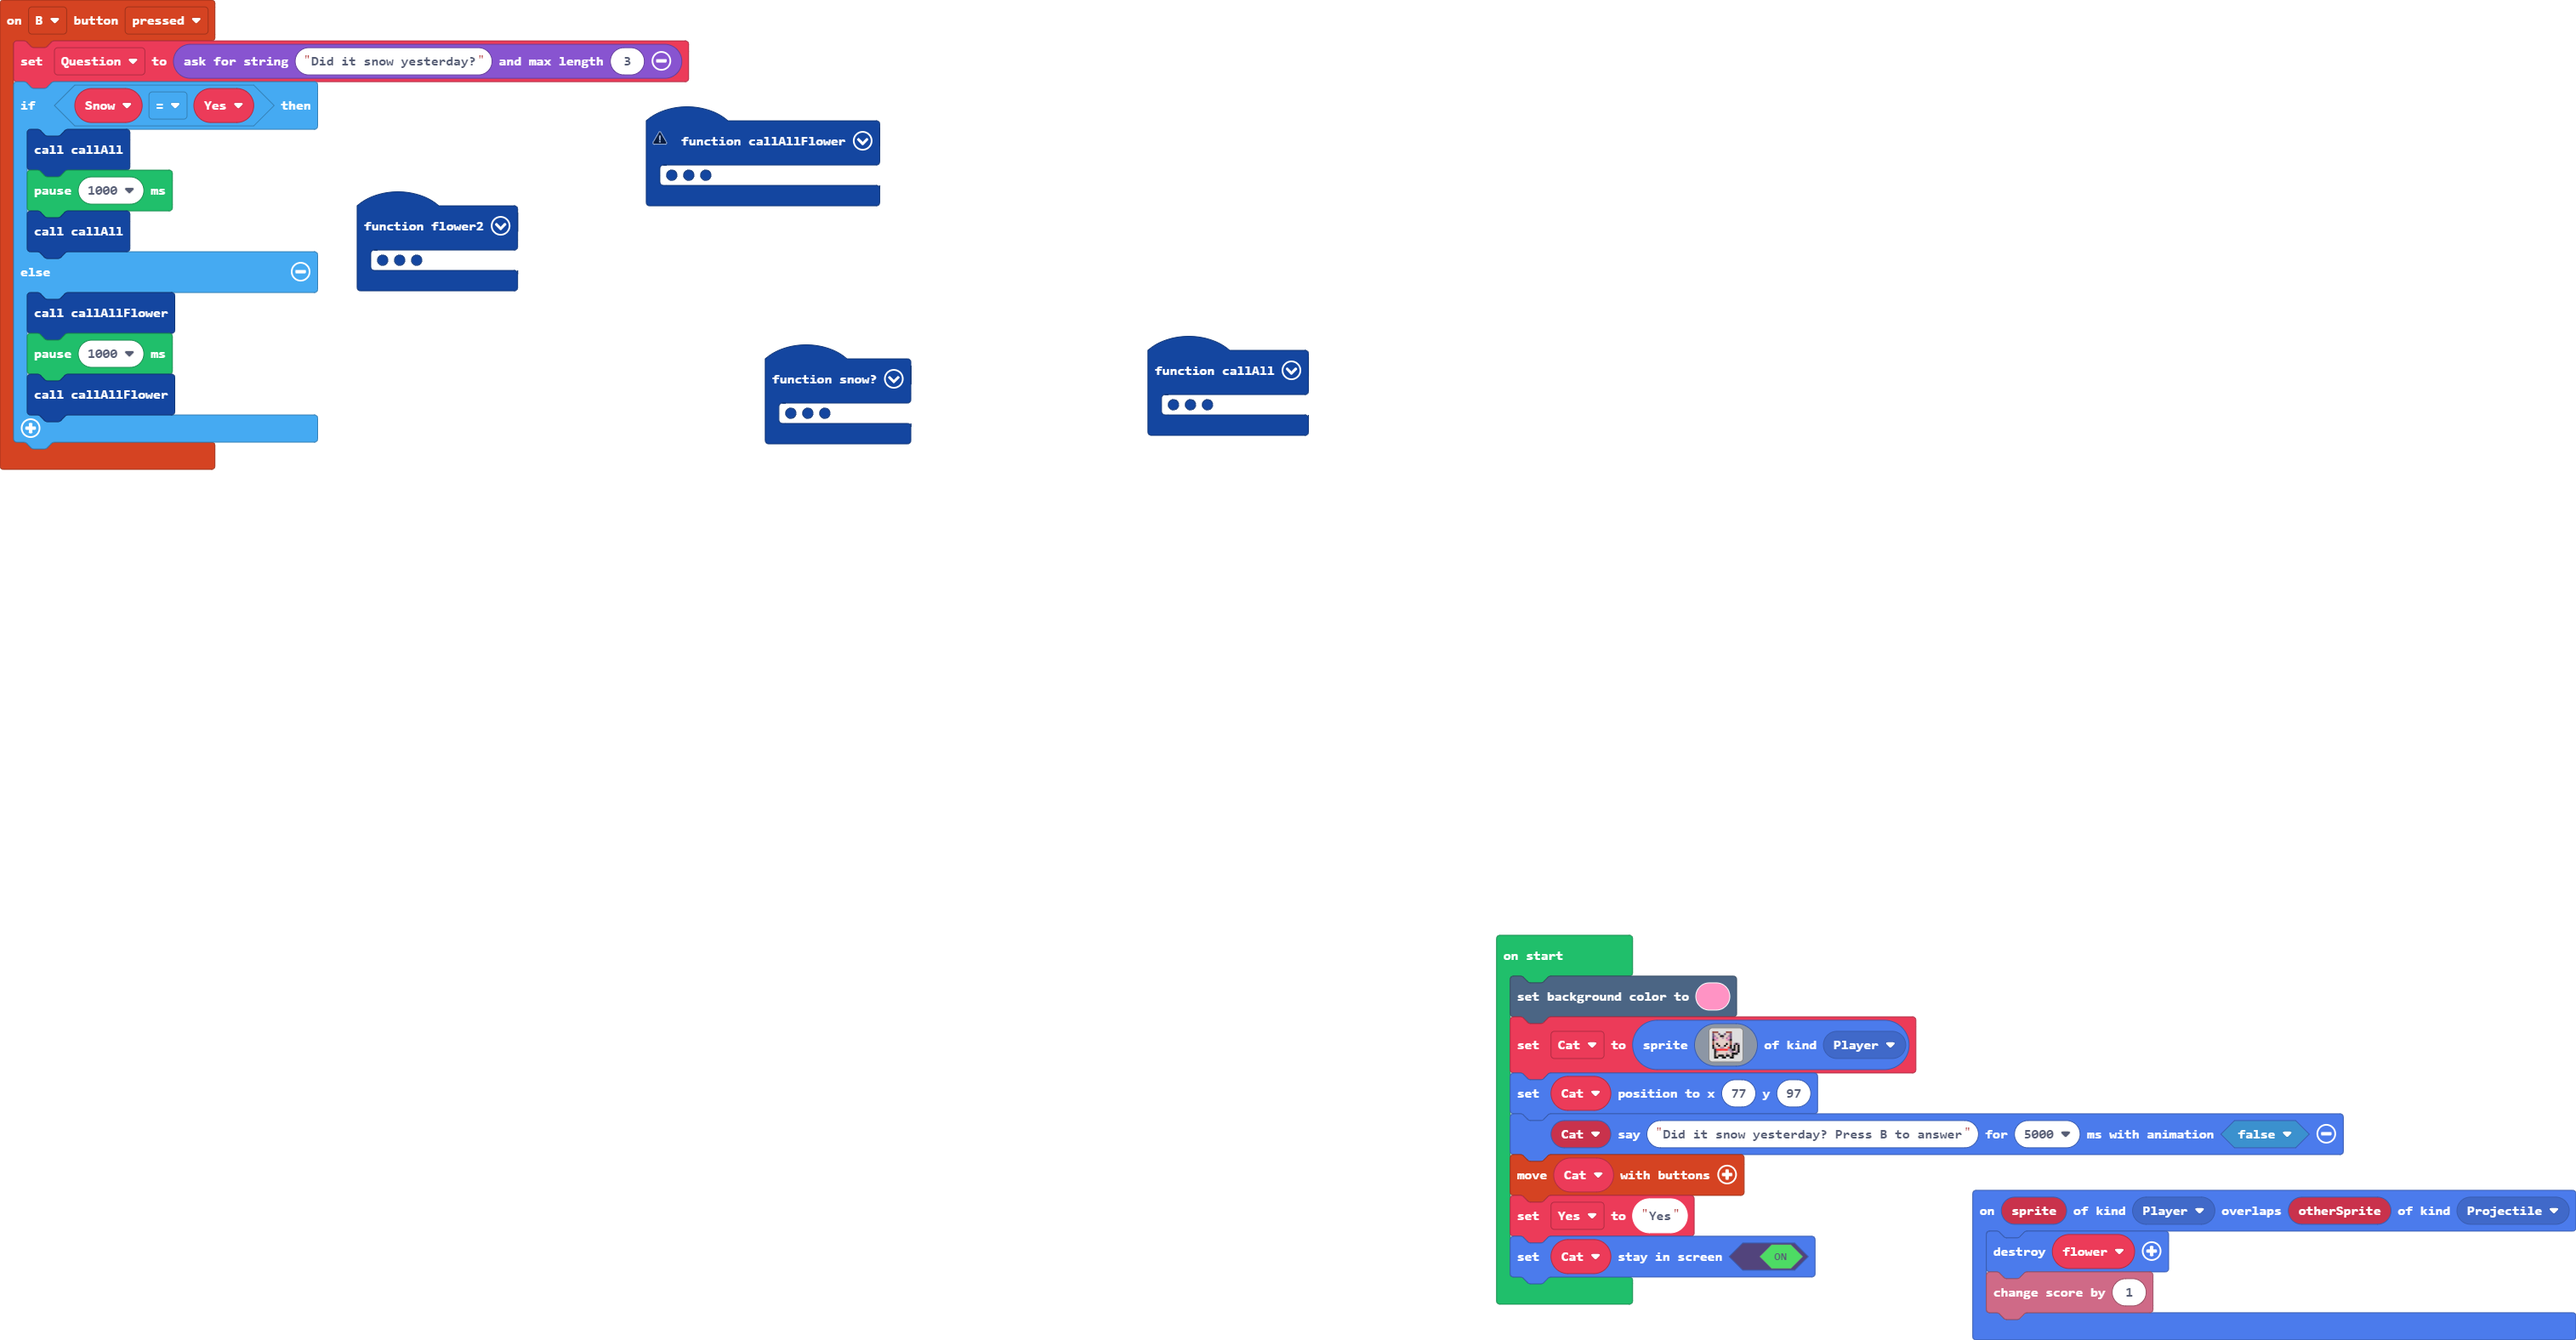
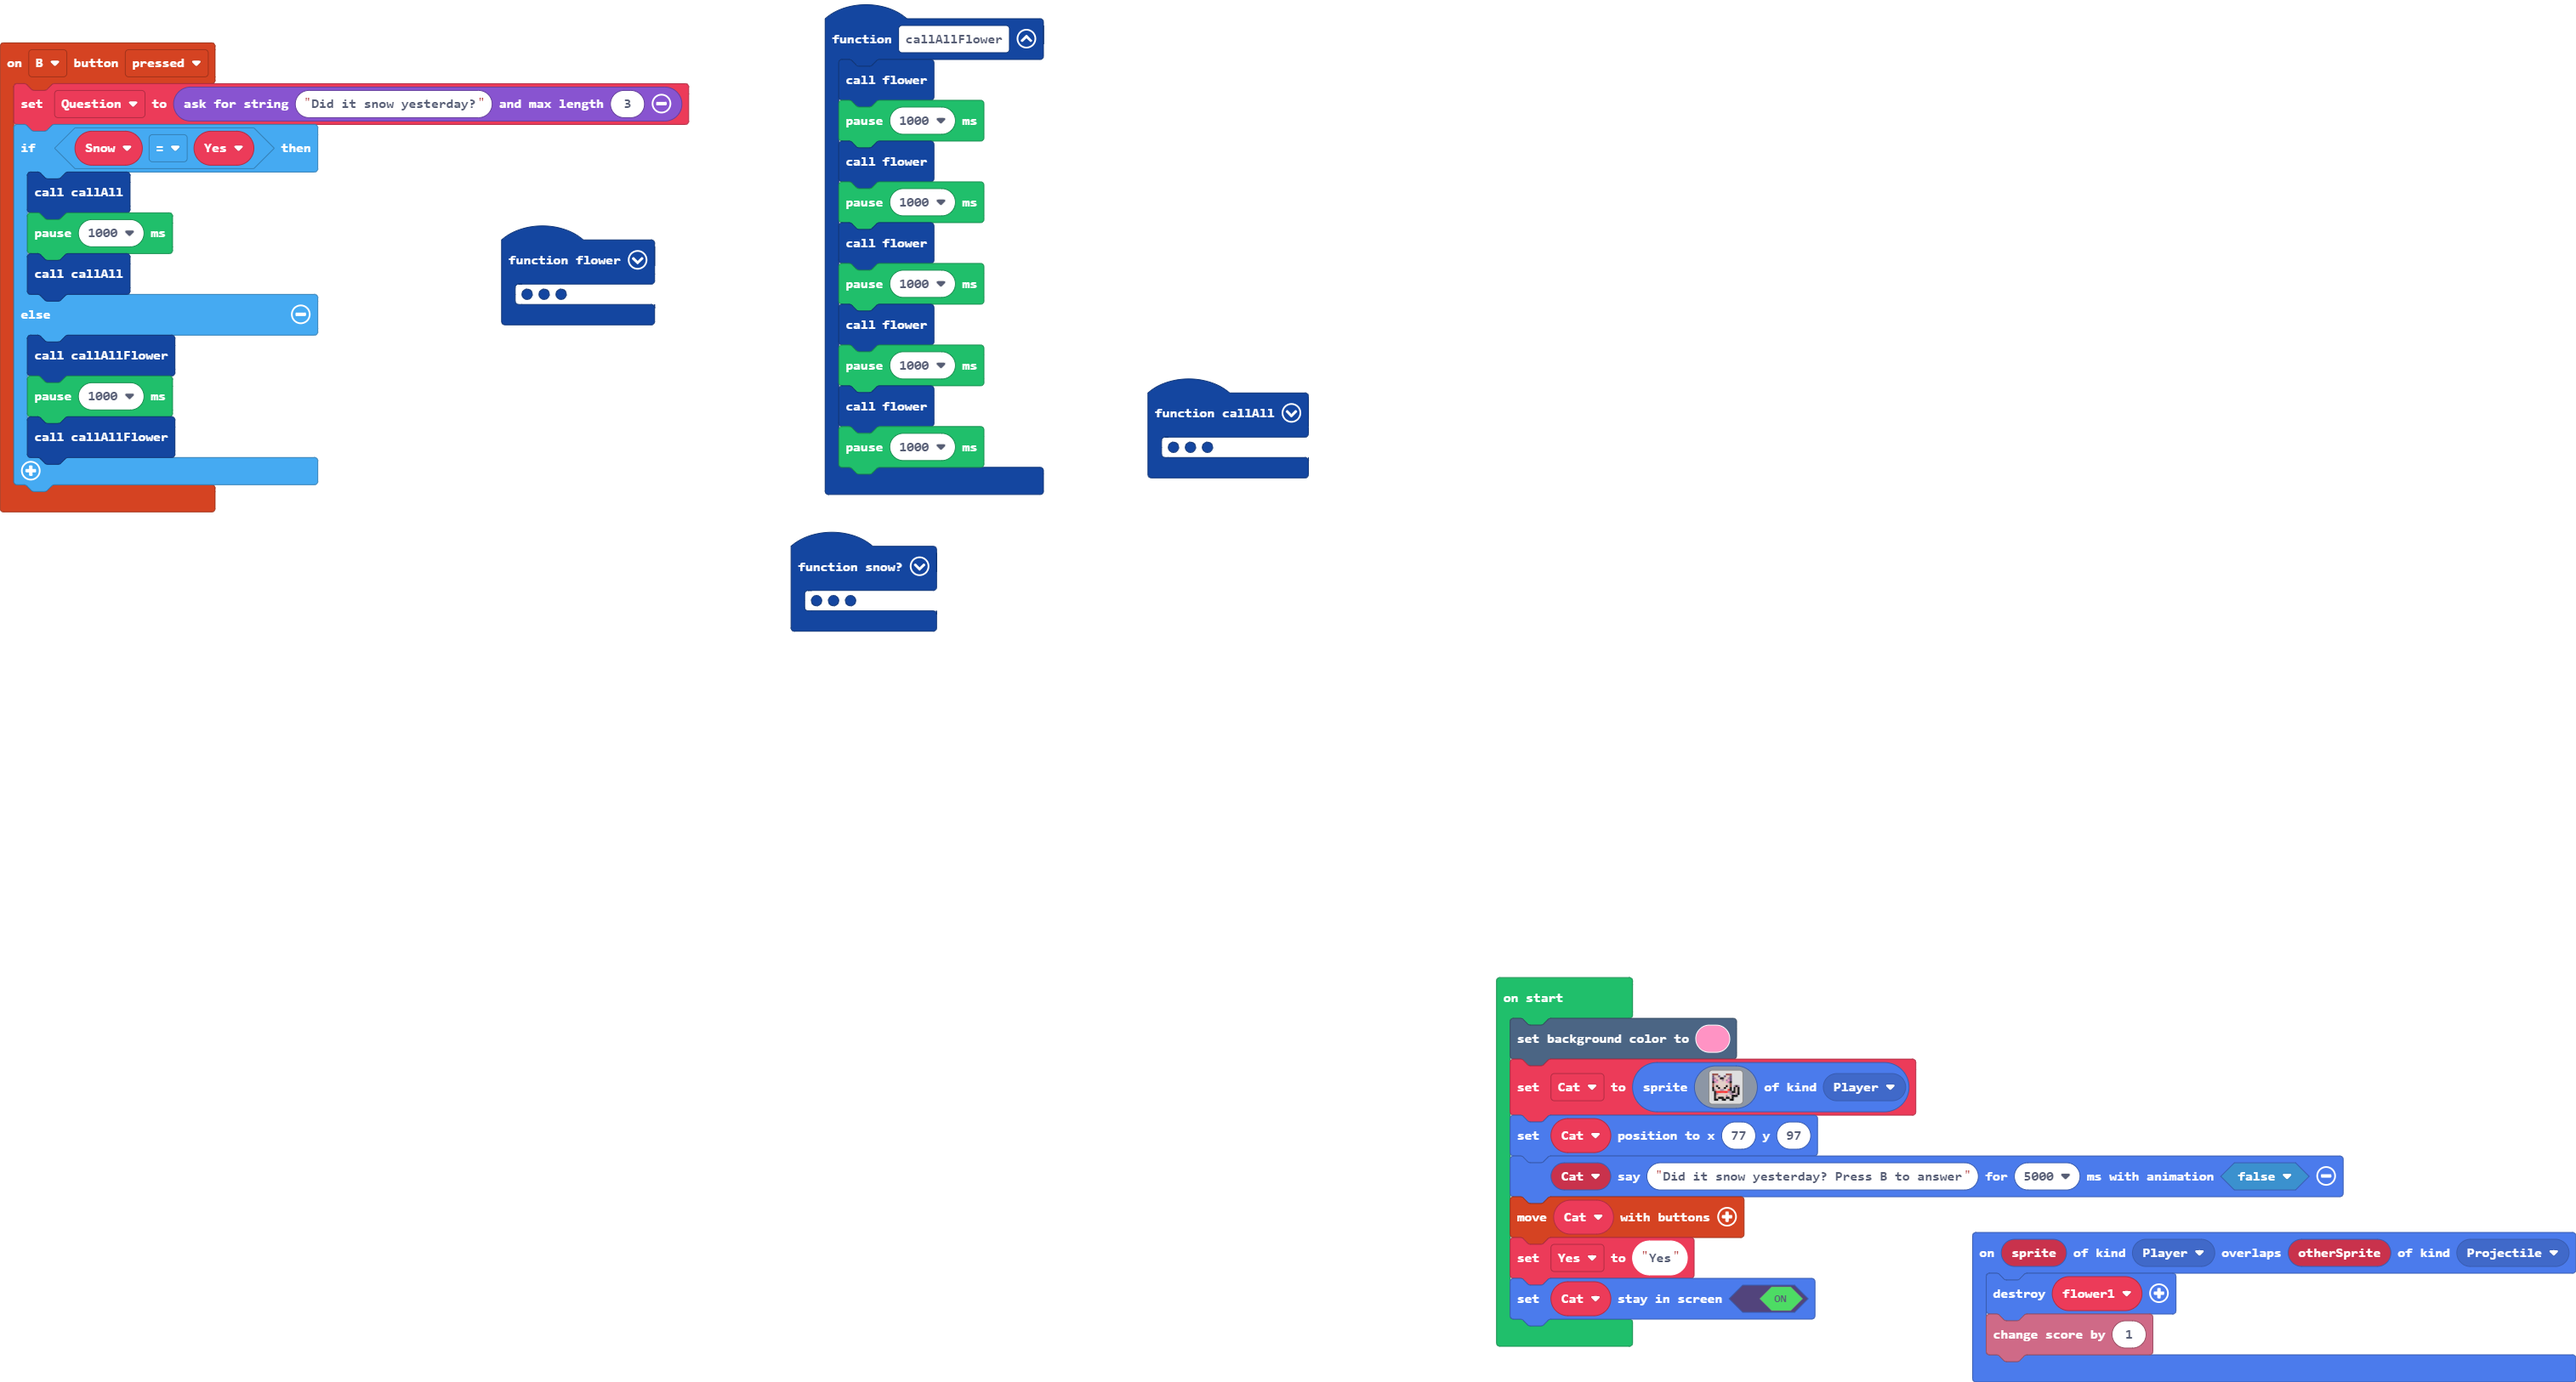
Update main.blocks, main.ts

Changed region(s): [[0.0, 0.0, 0.4034, 0.4664], [0.5586, 0.684, 1.0, 0.9949], [0.4345, 0.2487, 0.5276, 0.3731]]

diff --git a/main.ts b/main.ts
@@ -1,8 +1,3 @@
-function flower2 () {
-    for (let index = 0; index < 7; index++) {
-        flower = sprites.createProjectileFromSide(assets.image`Flower`, randint(0, -50), randint(0, 50))
-    }
-}
 controller.B.onEvent(ControllerButtonEvent.Pressed, function () {
     let Snow = ""
     Question = game.askForString("Did it snow yesterday?", 3)
@@ -30,7 +25,7 @@ function callAllFlower () {
 }
 function snow () {
     for (let index = 0; index < 7; index++) {
-        flower = sprites.createProjectileFromSide(img`
+        flower1 = sprites.createProjectileFromSide(img`
             . . . . . . . . . . . . . . . . 
             . . . . . 1 . . . . . . . . . . 
             . . 1 1 . . . 1 1 1 . . . . . . 
@@ -50,8 +45,13 @@ function snow () {
             `, randint(0, -50), randint(0, 50))
     }
 }
+function flower () {
+    for (let index = 0; index < 7; index++) {
+        flower1 = sprites.createProjectileFromSide(assets.image`Flower`, randint(0, -50), randint(0, 50))
+    }
+}
 sprites.onOverlap(SpriteKind.Player, SpriteKind.Projectile, function (sprite, otherSprite) {
-    flower.destroy()
+    flower1.destroy()
     info.changeScoreBy(1)
 })
 function callAll () {
@@ -66,8 +66,8 @@ function callAll () {
     snow()
     pause(1000)
 }
+let flower1: Sprite = null
 let Question = ""
-let flower: Sprite = null
 let Yes = ""
 scene.setBackgroundColor(3)
 let Cat = sprites.create(assets.image`Cat`, SpriteKind.Player)
